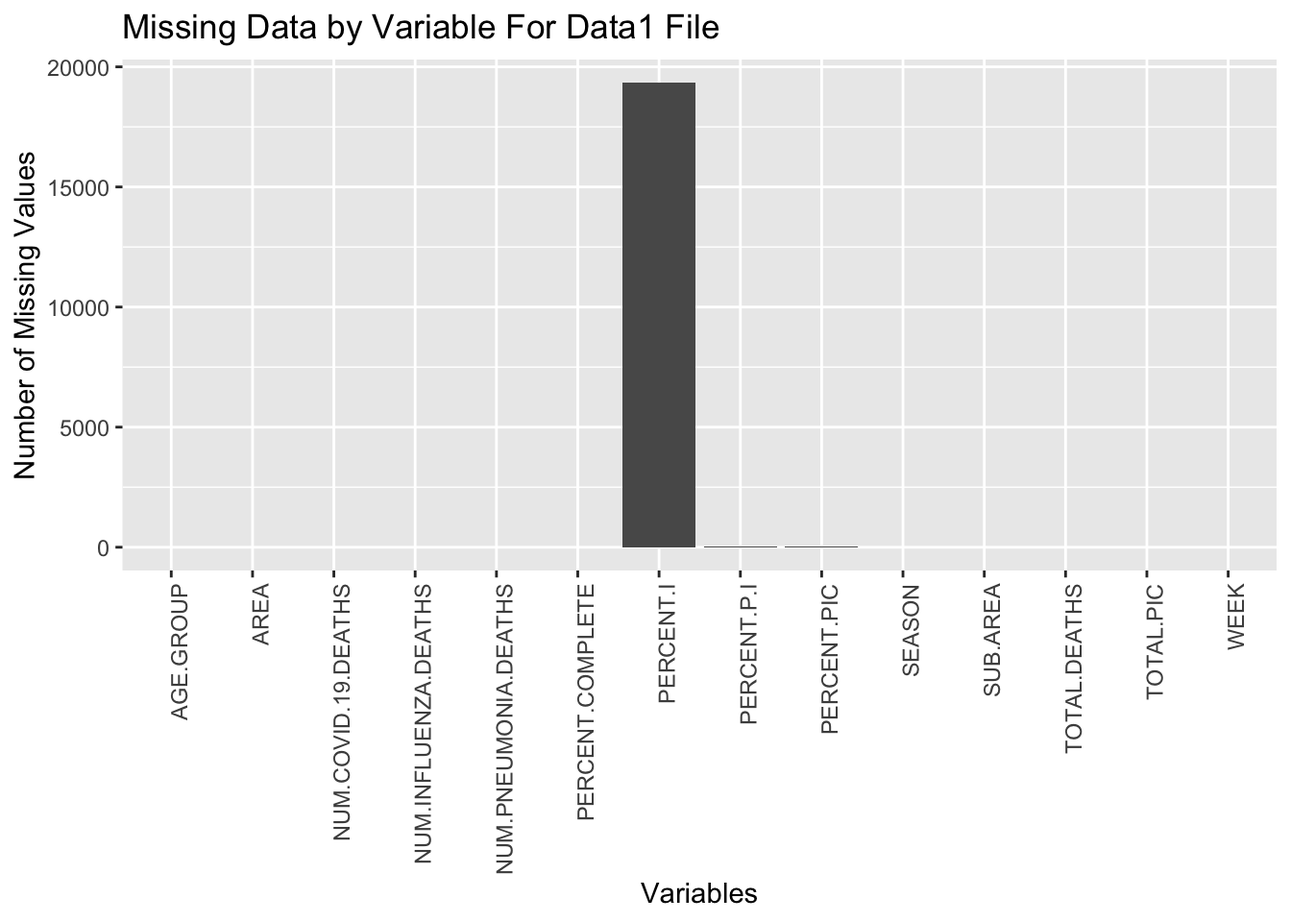
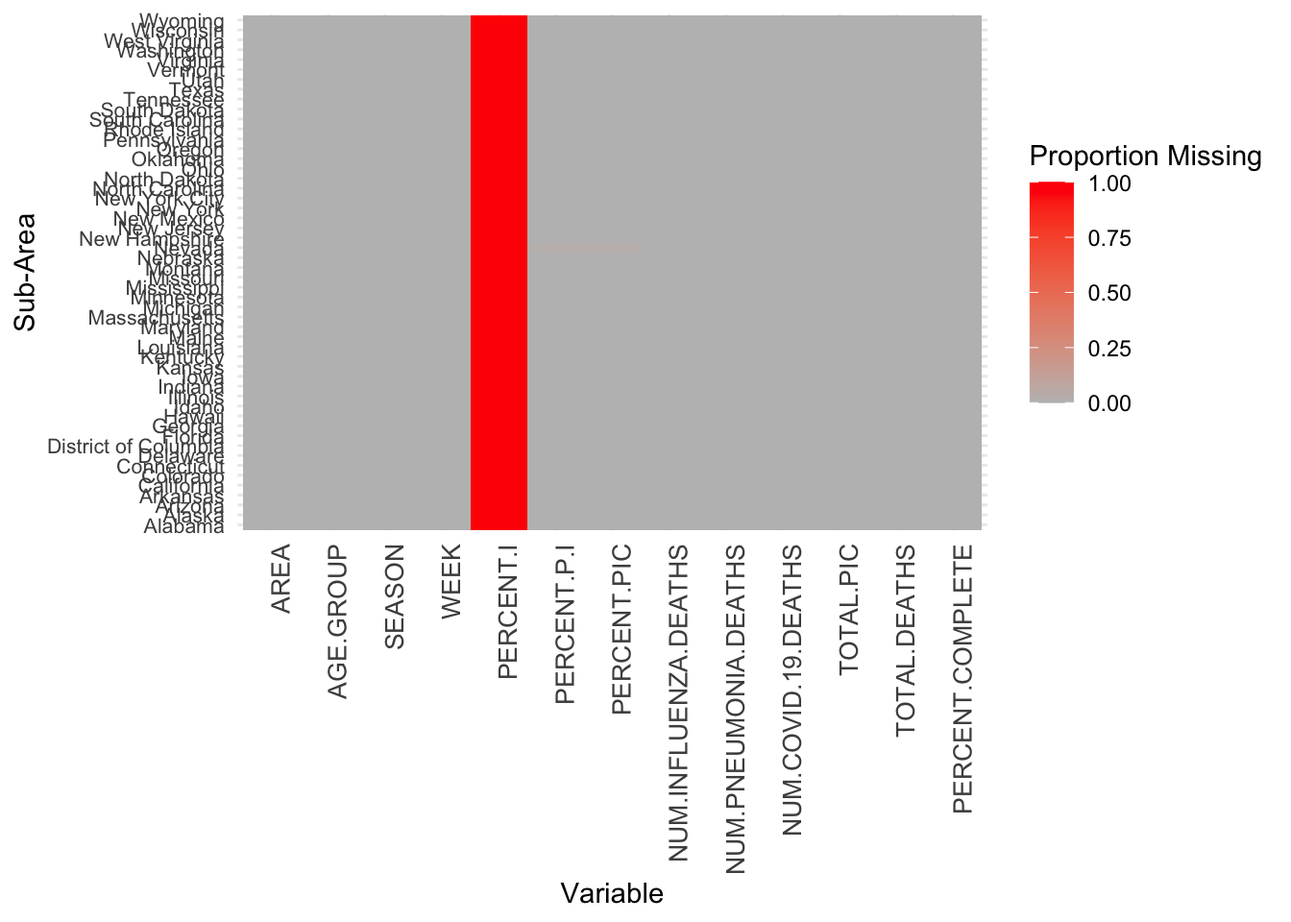
Update Data graph

diff --git a/docs/data.html b/docs/data.html
@@ -347,128 +347,112 @@ The final ones are “Weekly Cumulative Influenza Vaccination Coverage, Children
 <span id="cb10-3"><a href="#cb10-3" aria-hidden="true" tabindex="-1"></a><span class="co"># Calculating the number of missing values per column</span></span>
 <span id="cb10-4"><a href="#cb10-4" aria-hidden="true" tabindex="-1"></a>missing_values_counts <span class="ot">&lt;-</span> <span class="fu">colSums</span>(<span class="fu">is.na</span>(data1))</span>
 <span id="cb10-5"><a href="#cb10-5" aria-hidden="true" tabindex="-1"></a></span>
-<span id="cb10-6"><a href="#cb10-6" aria-hidden="true" tabindex="-1"></a><span class="co"># Creating a data frame for ggplot</span></span>
-<span id="cb10-7"><a href="#cb10-7" aria-hidden="true" tabindex="-1"></a>missing_data_df <span class="ot">&lt;-</span> <span class="fu">data.frame</span>(</span>
-<span id="cb10-8"><a href="#cb10-8" aria-hidden="true" tabindex="-1"></a>  <span class="at">Variable =</span> <span class="fu">names</span>(missing_values_counts),</span>
-<span id="cb10-9"><a href="#cb10-9" aria-hidden="true" tabindex="-1"></a>  <span class="at">MissingValues =</span> missing_values_counts</span>
-<span id="cb10-10"><a href="#cb10-10" aria-hidden="true" tabindex="-1"></a>)</span>
-<span id="cb10-11"><a href="#cb10-11" aria-hidden="true" tabindex="-1"></a><span class="co"># Plotting the bar chart</span></span>
-<span id="cb10-12"><a href="#cb10-12" aria-hidden="true" tabindex="-1"></a><span class="fu">ggplot</span>(missing_data_df, <span class="fu">aes</span>(<span class="at">x =</span> Variable, <span class="at">y =</span> MissingValues)) <span class="sc">+</span></span>
-<span id="cb10-13"><a href="#cb10-13" aria-hidden="true" tabindex="-1"></a>  <span class="fu">geom_bar</span>(<span class="at">stat =</span> <span class="st">"identity"</span>) <span class="sc">+</span></span>
-<span id="cb10-14"><a href="#cb10-14" aria-hidden="true" tabindex="-1"></a>  <span class="fu">theme</span>(<span class="at">axis.text.x =</span> <span class="fu">element_text</span>(<span class="at">angle =</span> <span class="dv">90</span>, <span class="at">hjust =</span> <span class="dv">1</span>)) <span class="sc">+</span></span>
-<span id="cb10-15"><a href="#cb10-15" aria-hidden="true" tabindex="-1"></a>  <span class="fu">labs</span>(<span class="at">x =</span> <span class="st">"Variables"</span>, <span class="at">y =</span> <span class="st">"Number of Missing Values"</span>, <span class="at">title =</span> <span class="st">"Missing Data by Variable For Data1 File"</span>)</span></code><button title="Copy to Clipboard" class="code-copy-button"><i class="bi"></i></button></pre></div>
+<span id="cb10-6"><a href="#cb10-6" aria-hidden="true" tabindex="-1"></a><span class="co"># Create a new dataframe indicating if each value is missing</span></span>
+<span id="cb10-7"><a href="#cb10-7" aria-hidden="true" tabindex="-1"></a>missing_values <span class="ot">&lt;-</span> data1 <span class="sc">%&gt;%</span> <span class="fu">mutate</span>(<span class="fu">across</span>(<span class="sc">-</span>SUB.AREA, is.na))</span>
+<span id="cb10-8"><a href="#cb10-8" aria-hidden="true" tabindex="-1"></a></span>
+<span id="cb10-9"><a href="#cb10-9" aria-hidden="true" tabindex="-1"></a><span class="co"># Calculate the proportion of missing values by state for each variable</span></span>
+<span id="cb10-10"><a href="#cb10-10" aria-hidden="true" tabindex="-1"></a>missing_values_proportion <span class="ot">&lt;-</span> missing_values <span class="sc">%&gt;%</span> </span>
+<span id="cb10-11"><a href="#cb10-11" aria-hidden="true" tabindex="-1"></a>  <span class="fu">group_by</span>(SUB.AREA) <span class="sc">%&gt;%</span></span>
+<span id="cb10-12"><a href="#cb10-12" aria-hidden="true" tabindex="-1"></a>  <span class="fu">summarise</span>(<span class="fu">across</span>(<span class="fu">everything</span>(), <span class="sc">~</span> <span class="fu">sum</span>(., <span class="at">na.rm =</span> <span class="cn">TRUE</span>) <span class="sc">/</span> <span class="fu">n</span>()))</span>
+<span id="cb10-13"><a href="#cb10-13" aria-hidden="true" tabindex="-1"></a></span>
+<span id="cb10-14"><a href="#cb10-14" aria-hidden="true" tabindex="-1"></a><span class="co"># Reshape the data for the heatmap</span></span>
+<span id="cb10-15"><a href="#cb10-15" aria-hidden="true" tabindex="-1"></a>long_format <span class="ot">&lt;-</span> <span class="fu">melt</span>(missing_values_proportion, <span class="at">id.vars =</span> <span class="st">'SUB.AREA'</span>)</span>
+<span id="cb10-16"><a href="#cb10-16" aria-hidden="true" tabindex="-1"></a></span>
+<span id="cb10-17"><a href="#cb10-17" aria-hidden="true" tabindex="-1"></a><span class="co"># Plot the heatmap</span></span>
+<span id="cb10-18"><a href="#cb10-18" aria-hidden="true" tabindex="-1"></a><span class="fu">ggplot</span>(long_format, <span class="fu">aes</span>(<span class="at">x =</span> variable, <span class="at">y =</span> SUB.AREA, <span class="at">fill =</span> value)) <span class="sc">+</span></span>
+<span id="cb10-19"><a href="#cb10-19" aria-hidden="true" tabindex="-1"></a>  <span class="fu">geom_tile</span>() <span class="sc">+</span></span>
+<span id="cb10-20"><a href="#cb10-20" aria-hidden="true" tabindex="-1"></a>  <span class="fu">scale_fill_gradient</span>(<span class="at">low =</span> <span class="st">"grey"</span>, <span class="at">high =</span> <span class="st">"red"</span>) <span class="sc">+</span></span>
+<span id="cb10-21"><a href="#cb10-21" aria-hidden="true" tabindex="-1"></a>  <span class="fu">labs</span>(<span class="at">x =</span> <span class="st">"Variable"</span>, <span class="at">y =</span> <span class="st">"Sub-Area"</span>, <span class="at">fill =</span> <span class="st">"Proportion Missing"</span>) <span class="sc">+</span></span>
+<span id="cb10-22"><a href="#cb10-22" aria-hidden="true" tabindex="-1"></a>  <span class="fu">theme_minimal</span>() <span class="sc">+</span></span>
+<span id="cb10-23"><a href="#cb10-23" aria-hidden="true" tabindex="-1"></a>  <span class="fu">theme</span>(</span>
+<span id="cb10-24"><a href="#cb10-24" aria-hidden="true" tabindex="-1"></a>    <span class="at">axis.text.x =</span> <span class="fu">element_text</span>(<span class="at">angle =</span> <span class="dv">90</span>, <span class="at">hjust =</span> <span class="dv">1</span>, <span class="at">size =</span> <span class="dv">10</span>),</span>
+<span id="cb10-25"><a href="#cb10-25" aria-hidden="true" tabindex="-1"></a>    <span class="at">axis.text.y =</span> <span class="fu">element_text</span>(<span class="at">size =</span> <span class="dv">8</span>))</span></code><button title="Copy to Clipboard" class="code-copy-button"><i class="bi"></i></button></pre></div>
 </details>
 <div class="cell-output-display">
 <p><img src="data_files/figure-html/unnamed-chunk-5-1.png" class="img-fluid" width="672"></p>
-</div>
-<details>
-<summary>Code</summary>
-<div class="sourceCode cell-code" id="cb11"><pre class="sourceCode r code-with-copy"><code class="sourceCode r"><span id="cb11-1"><a href="#cb11-1" aria-hidden="true" tabindex="-1"></a><span class="co"># Create a new dataframe indicating if each value is missing</span></span>
-<span id="cb11-2"><a href="#cb11-2" aria-hidden="true" tabindex="-1"></a>missing_values <span class="ot">&lt;-</span> data1 <span class="sc">%&gt;%</span> <span class="fu">mutate</span>(<span class="fu">across</span>(<span class="sc">-</span>SUB.AREA, is.na))</span>
-<span id="cb11-3"><a href="#cb11-3" aria-hidden="true" tabindex="-1"></a></span>
-<span id="cb11-4"><a href="#cb11-4" aria-hidden="true" tabindex="-1"></a><span class="co"># Calculate the proportion of missing values by state for each variable</span></span>
-<span id="cb11-5"><a href="#cb11-5" aria-hidden="true" tabindex="-1"></a>missing_values_proportion <span class="ot">&lt;-</span> missing_values <span class="sc">%&gt;%</span> </span>
-<span id="cb11-6"><a href="#cb11-6" aria-hidden="true" tabindex="-1"></a>  <span class="fu">group_by</span>(SUB.AREA) <span class="sc">%&gt;%</span></span>
-<span id="cb11-7"><a href="#cb11-7" aria-hidden="true" tabindex="-1"></a>  <span class="fu">summarise</span>(<span class="fu">across</span>(<span class="fu">everything</span>(), <span class="sc">~</span> <span class="fu">sum</span>(., <span class="at">na.rm =</span> <span class="cn">TRUE</span>) <span class="sc">/</span> <span class="fu">n</span>()))</span>
-<span id="cb11-8"><a href="#cb11-8" aria-hidden="true" tabindex="-1"></a></span>
-<span id="cb11-9"><a href="#cb11-9" aria-hidden="true" tabindex="-1"></a><span class="co"># Reshape the data for the heatmap</span></span>
-<span id="cb11-10"><a href="#cb11-10" aria-hidden="true" tabindex="-1"></a>long_format <span class="ot">&lt;-</span> <span class="fu">melt</span>(missing_values_proportion, <span class="at">id.vars =</span> <span class="st">'SUB.AREA'</span>)</span>
-<span id="cb11-11"><a href="#cb11-11" aria-hidden="true" tabindex="-1"></a></span>
-<span id="cb11-12"><a href="#cb11-12" aria-hidden="true" tabindex="-1"></a><span class="co"># Plot the heatmap</span></span>
-<span id="cb11-13"><a href="#cb11-13" aria-hidden="true" tabindex="-1"></a><span class="fu">ggplot</span>(long_format, <span class="fu">aes</span>(<span class="at">x =</span> variable, <span class="at">y =</span> SUB.AREA, <span class="at">fill =</span> value)) <span class="sc">+</span></span>
-<span id="cb11-14"><a href="#cb11-14" aria-hidden="true" tabindex="-1"></a>  <span class="fu">geom_tile</span>() <span class="sc">+</span></span>
-<span id="cb11-15"><a href="#cb11-15" aria-hidden="true" tabindex="-1"></a>  <span class="fu">scale_fill_gradient</span>(<span class="at">low =</span> <span class="st">"grey"</span>, <span class="at">high =</span> <span class="st">"red"</span>) <span class="sc">+</span></span>
-<span id="cb11-16"><a href="#cb11-16" aria-hidden="true" tabindex="-1"></a>  <span class="fu">labs</span>(<span class="at">x =</span> <span class="st">"Variable"</span>, <span class="at">y =</span> <span class="st">"Sub-Area"</span>, <span class="at">fill =</span> <span class="st">"Proportion Missing"</span>) <span class="sc">+</span></span>
-<span id="cb11-17"><a href="#cb11-17" aria-hidden="true" tabindex="-1"></a>  <span class="fu">theme_minimal</span>() <span class="sc">+</span></span>
-<span id="cb11-18"><a href="#cb11-18" aria-hidden="true" tabindex="-1"></a>  <span class="fu">theme</span>(</span>
-<span id="cb11-19"><a href="#cb11-19" aria-hidden="true" tabindex="-1"></a>    <span class="at">axis.text.x =</span> <span class="fu">element_text</span>(<span class="at">angle =</span> <span class="dv">90</span>, <span class="at">hjust =</span> <span class="dv">1</span>, <span class="at">size =</span> <span class="dv">10</span>),</span>
-<span id="cb11-20"><a href="#cb11-20" aria-hidden="true" tabindex="-1"></a>    <span class="at">axis.text.y =</span> <span class="fu">element_text</span>(<span class="at">size =</span> <span class="dv">8</span>))</span></code><button title="Copy to Clipboard" class="code-copy-button"><i class="bi"></i></button></pre></div>
-</details>
-<div class="cell-output-display">
-<p><img src="data_files/figure-html/unnamed-chunk-5-2.png" class="img-fluid" width="672"></p>
 </div>
 </div>
 <p>In dataset 2, a lot of diseases have null values different states such as Alaska, Arkansas, Colorado, Connecticut, Delaware, District of Columbia, Hawaii, Idaho, Indiana, Iowa, Kansas, Louisiana, Maine, Maryland, Minnesota, most of which are missing in influenza and pneumonia, and abnormal clinical findings.</p>
 <div class="cell">
 <details>
 <summary>Code</summary>
-<div class="sourceCode cell-code" id="cb12"><pre class="sourceCode r code-with-copy"><code class="sourceCode r"><span id="cb12-1"><a href="#cb12-1" aria-hidden="true" tabindex="-1"></a>data2 <span class="ot">&lt;-</span> <span class="fu">read.csv</span>(<span class="st">"data/data2.csv"</span>)</span>
-<span id="cb12-2"><a href="#cb12-2" aria-hidden="true" tabindex="-1"></a></span>
-<span id="cb12-3"><a href="#cb12-3" aria-hidden="true" tabindex="-1"></a><span class="co"># Define a function to count missing values</span></span>
-<span id="cb12-4"><a href="#cb12-4" aria-hidden="true" tabindex="-1"></a>count_missing <span class="ot">&lt;-</span> <span class="cf">function</span>(x) {</span>
-<span id="cb12-5"><a href="#cb12-5" aria-hidden="true" tabindex="-1"></a>  na_count <span class="ot">&lt;-</span> <span class="fu">sum</span>(<span class="fu">is.na</span>(x))             <span class="co"># Count NA values</span></span>
-<span id="cb12-6"><a href="#cb12-6" aria-hidden="true" tabindex="-1"></a>  blank_count <span class="ot">&lt;-</span> <span class="fu">sum</span>(x <span class="sc">==</span> <span class="st">""</span>, <span class="at">na.rm =</span> <span class="cn">TRUE</span>) <span class="co"># Count blank strings, remove NA from count</span></span>
-<span id="cb12-7"><a href="#cb12-7" aria-hidden="true" tabindex="-1"></a>  <span class="fu">return</span>(na_count <span class="sc">+</span> blank_count)</span>
-<span id="cb12-8"><a href="#cb12-8" aria-hidden="true" tabindex="-1"></a>}</span>
-<span id="cb12-9"><a href="#cb12-9" aria-hidden="true" tabindex="-1"></a></span>
-<span id="cb12-10"><a href="#cb12-10" aria-hidden="true" tabindex="-1"></a><span class="co"># Apply this function to every column in the dataframe</span></span>
-<span id="cb12-11"><a href="#cb12-11" aria-hidden="true" tabindex="-1"></a>missing_counts <span class="ot">&lt;-</span> <span class="fu">sapply</span>(data2, count_missing)</span>
-<span id="cb12-12"><a href="#cb12-12" aria-hidden="true" tabindex="-1"></a><span class="co"># Creating a data frame for ggplot</span></span>
-<span id="cb12-13"><a href="#cb12-13" aria-hidden="true" tabindex="-1"></a>variable_indices <span class="ot">&lt;-</span> <span class="dv">1</span><span class="sc">:</span><span class="fu">length</span>(missing_counts)</span>
-<span id="cb12-14"><a href="#cb12-14" aria-hidden="true" tabindex="-1"></a>missing_data_df1 <span class="ot">&lt;-</span> <span class="fu">data.frame</span>(</span>
-<span id="cb12-15"><a href="#cb12-15" aria-hidden="true" tabindex="-1"></a>  <span class="at">Variable =</span> variable_indices,</span>
-<span id="cb12-16"><a href="#cb12-16" aria-hidden="true" tabindex="-1"></a>  <span class="at">MissingValues =</span> missing_counts</span>
-<span id="cb12-17"><a href="#cb12-17" aria-hidden="true" tabindex="-1"></a>)</span>
-<span id="cb12-18"><a href="#cb12-18" aria-hidden="true" tabindex="-1"></a></span>
-<span id="cb12-19"><a href="#cb12-19" aria-hidden="true" tabindex="-1"></a><span class="co"># Plotting the bar chart</span></span>
-<span id="cb12-20"><a href="#cb12-20" aria-hidden="true" tabindex="-1"></a><span class="fu">ggplot</span>(missing_data_df1, <span class="fu">aes</span>(<span class="at">x =</span> Variable, <span class="at">y =</span> MissingValues)) <span class="sc">+</span></span>
-<span id="cb12-21"><a href="#cb12-21" aria-hidden="true" tabindex="-1"></a>  <span class="fu">geom_bar</span>(<span class="at">stat =</span> <span class="st">"identity"</span>) <span class="sc">+</span></span>
-<span id="cb12-22"><a href="#cb12-22" aria-hidden="true" tabindex="-1"></a>  <span class="fu">theme</span>(<span class="at">axis.text.x =</span> <span class="fu">element_text</span>(<span class="at">angle =</span> <span class="dv">90</span>, <span class="at">hjust =</span> <span class="dv">1</span>)) <span class="sc">+</span></span>
-<span id="cb12-23"><a href="#cb12-23" aria-hidden="true" tabindex="-1"></a>  <span class="fu">labs</span>(<span class="at">x =</span> <span class="st">"Variable Index"</span>, <span class="at">y =</span> <span class="st">"Number of Missing Values"</span>, <span class="at">title =</span> <span class="st">"Missing Data by Variable For Data2 File"</span>)</span></code><button title="Copy to Clipboard" class="code-copy-button"><i class="bi"></i></button></pre></div>
+<div class="sourceCode cell-code" id="cb11"><pre class="sourceCode r code-with-copy"><code class="sourceCode r"><span id="cb11-1"><a href="#cb11-1" aria-hidden="true" tabindex="-1"></a>data2 <span class="ot">&lt;-</span> <span class="fu">read.csv</span>(<span class="st">"data/data2.csv"</span>)</span>
+<span id="cb11-2"><a href="#cb11-2" aria-hidden="true" tabindex="-1"></a></span>
+<span id="cb11-3"><a href="#cb11-3" aria-hidden="true" tabindex="-1"></a><span class="co"># Define a function to count missing values</span></span>
+<span id="cb11-4"><a href="#cb11-4" aria-hidden="true" tabindex="-1"></a>count_missing <span class="ot">&lt;-</span> <span class="cf">function</span>(x) {</span>
+<span id="cb11-5"><a href="#cb11-5" aria-hidden="true" tabindex="-1"></a>  na_count <span class="ot">&lt;-</span> <span class="fu">sum</span>(<span class="fu">is.na</span>(x))             <span class="co"># Count NA values</span></span>
+<span id="cb11-6"><a href="#cb11-6" aria-hidden="true" tabindex="-1"></a>  blank_count <span class="ot">&lt;-</span> <span class="fu">sum</span>(x <span class="sc">==</span> <span class="st">""</span>, <span class="at">na.rm =</span> <span class="cn">TRUE</span>) <span class="co"># Count blank strings, remove NA from count</span></span>
+<span id="cb11-7"><a href="#cb11-7" aria-hidden="true" tabindex="-1"></a>  <span class="fu">return</span>(na_count <span class="sc">+</span> blank_count)</span>
+<span id="cb11-8"><a href="#cb11-8" aria-hidden="true" tabindex="-1"></a>}</span>
+<span id="cb11-9"><a href="#cb11-9" aria-hidden="true" tabindex="-1"></a></span>
+<span id="cb11-10"><a href="#cb11-10" aria-hidden="true" tabindex="-1"></a><span class="co"># Apply this function to every column in the dataframe</span></span>
+<span id="cb11-11"><a href="#cb11-11" aria-hidden="true" tabindex="-1"></a>missing_counts <span class="ot">&lt;-</span> <span class="fu">sapply</span>(data2, count_missing)</span>
+<span id="cb11-12"><a href="#cb11-12" aria-hidden="true" tabindex="-1"></a><span class="co"># Creating a data frame for ggplot</span></span>
+<span id="cb11-13"><a href="#cb11-13" aria-hidden="true" tabindex="-1"></a>variable_indices <span class="ot">&lt;-</span> <span class="dv">1</span><span class="sc">:</span><span class="fu">length</span>(missing_counts)</span>
+<span id="cb11-14"><a href="#cb11-14" aria-hidden="true" tabindex="-1"></a>missing_data_df1 <span class="ot">&lt;-</span> <span class="fu">data.frame</span>(</span>
+<span id="cb11-15"><a href="#cb11-15" aria-hidden="true" tabindex="-1"></a>  <span class="at">Variable =</span> variable_indices,</span>
+<span id="cb11-16"><a href="#cb11-16" aria-hidden="true" tabindex="-1"></a>  <span class="at">MissingValues =</span> missing_counts</span>
+<span id="cb11-17"><a href="#cb11-17" aria-hidden="true" tabindex="-1"></a>)</span>
+<span id="cb11-18"><a href="#cb11-18" aria-hidden="true" tabindex="-1"></a></span>
+<span id="cb11-19"><a href="#cb11-19" aria-hidden="true" tabindex="-1"></a><span class="co"># Plotting the bar chart</span></span>
+<span id="cb11-20"><a href="#cb11-20" aria-hidden="true" tabindex="-1"></a><span class="fu">ggplot</span>(missing_data_df1, <span class="fu">aes</span>(<span class="at">x =</span> Variable, <span class="at">y =</span> MissingValues)) <span class="sc">+</span></span>
+<span id="cb11-21"><a href="#cb11-21" aria-hidden="true" tabindex="-1"></a>  <span class="fu">geom_bar</span>(<span class="at">stat =</span> <span class="st">"identity"</span>) <span class="sc">+</span></span>
+<span id="cb11-22"><a href="#cb11-22" aria-hidden="true" tabindex="-1"></a>  <span class="fu">theme</span>(<span class="at">axis.text.x =</span> <span class="fu">element_text</span>(<span class="at">angle =</span> <span class="dv">90</span>, <span class="at">hjust =</span> <span class="dv">1</span>)) <span class="sc">+</span></span>
+<span id="cb11-23"><a href="#cb11-23" aria-hidden="true" tabindex="-1"></a>  <span class="fu">labs</span>(<span class="at">x =</span> <span class="st">"Variable Index"</span>, <span class="at">y =</span> <span class="st">"Number of Missing Values"</span>, <span class="at">title =</span> <span class="st">"Missing Data by Variable For Data2 File"</span>)</span></code><button title="Copy to Clipboard" class="code-copy-button"><i class="bi"></i></button></pre></div>
 </details>
 <div class="cell-output-display">
 <p><img src="data_files/figure-html/unnamed-chunk-6-1.png" class="img-fluid" width="672"></p>
 </div>
 <details>
 <summary>Code</summary>
-<div class="sourceCode cell-code" id="cb13"><pre class="sourceCode r code-with-copy"><code class="sourceCode r"><span id="cb13-1"><a href="#cb13-1" aria-hidden="true" tabindex="-1"></a><span class="fu">ggsave</span>(<span class="st">'data2missing.png'</span>)</span></code><button title="Copy to Clipboard" class="code-copy-button"><i class="bi"></i></button></pre></div>
+<div class="sourceCode cell-code" id="cb12"><pre class="sourceCode r code-with-copy"><code class="sourceCode r"><span id="cb12-1"><a href="#cb12-1" aria-hidden="true" tabindex="-1"></a><span class="fu">ggsave</span>(<span class="st">'data2missing.png'</span>)</span></code><button title="Copy to Clipboard" class="code-copy-button"><i class="bi"></i></button></pre></div>
 </details>
 </div>
 <p>In dataset 3, it seems that Guam in “Weekly Cumulative Influenza Vaccination Coverage for Children” tends to have missing values for a few estimation variables such as point estimate, and confidence intervals while the data belongs to “Up-to-date” indicator label in “Weekly Cumulative Influenza Vaccination Coverage for Adults” are highly likely to appear missing.</p>
 <div class="cell">
 <details>
 <summary>Code</summary>
-<div class="sourceCode cell-code" id="cb14"><pre class="sourceCode r code-with-copy"><code class="sourceCode r"><span id="cb14-1"><a href="#cb14-1" aria-hidden="true" tabindex="-1"></a>data3_adult <span class="ot">&lt;-</span> <span class="fu">read.csv</span>(<span class="st">"data/data3_adult.csv"</span>)</span>
-<span id="cb14-2"><a href="#cb14-2" aria-hidden="true" tabindex="-1"></a>data3_youth <span class="ot">&lt;-</span> <span class="fu">read.csv</span>(<span class="st">"data/data3_youth.csv"</span>)</span>
-<span id="cb14-3"><a href="#cb14-3" aria-hidden="true" tabindex="-1"></a></span>
-<span id="cb14-4"><a href="#cb14-4" aria-hidden="true" tabindex="-1"></a><span class="co"># Define a function to count missing values</span></span>
-<span id="cb14-5"><a href="#cb14-5" aria-hidden="true" tabindex="-1"></a>count_missing <span class="ot">&lt;-</span> <span class="cf">function</span>(x) {</span>
-<span id="cb14-6"><a href="#cb14-6" aria-hidden="true" tabindex="-1"></a>  na_count <span class="ot">&lt;-</span> <span class="fu">sum</span>(<span class="fu">is.na</span>(x))             <span class="co"># Count NA values</span></span>
-<span id="cb14-7"><a href="#cb14-7" aria-hidden="true" tabindex="-1"></a>  blank_count <span class="ot">&lt;-</span> <span class="fu">sum</span>(x <span class="sc">==</span> <span class="st">""</span>, <span class="at">na.rm =</span> <span class="cn">TRUE</span>) <span class="co"># Count blank strings, remove NA from count</span></span>
-<span id="cb14-8"><a href="#cb14-8" aria-hidden="true" tabindex="-1"></a>  <span class="fu">return</span>(na_count <span class="sc">+</span> blank_count)</span>
-<span id="cb14-9"><a href="#cb14-9" aria-hidden="true" tabindex="-1"></a>}</span>
-<span id="cb14-10"><a href="#cb14-10" aria-hidden="true" tabindex="-1"></a></span>
-<span id="cb14-11"><a href="#cb14-11" aria-hidden="true" tabindex="-1"></a><span class="co"># Apply this function to every column in the dataframe</span></span>
-<span id="cb14-12"><a href="#cb14-12" aria-hidden="true" tabindex="-1"></a>missing_counts3a <span class="ot">&lt;-</span> <span class="fu">sapply</span>(data3_adult, count_missing)</span>
-<span id="cb14-13"><a href="#cb14-13" aria-hidden="true" tabindex="-1"></a>missing_counts3y <span class="ot">&lt;-</span> <span class="fu">sapply</span>(data3_youth, count_missing)</span>
-<span id="cb14-14"><a href="#cb14-14" aria-hidden="true" tabindex="-1"></a><span class="co"># Creating a data frame for ggplot</span></span>
-<span id="cb14-15"><a href="#cb14-15" aria-hidden="true" tabindex="-1"></a>missing_data_df3a <span class="ot">&lt;-</span> <span class="fu">data.frame</span>(</span>
-<span id="cb14-16"><a href="#cb14-16" aria-hidden="true" tabindex="-1"></a>  <span class="at">Variable =</span> <span class="fu">names</span>(missing_counts3a),</span>
-<span id="cb14-17"><a href="#cb14-17" aria-hidden="true" tabindex="-1"></a>  <span class="at">MissingValues =</span> missing_counts3a</span>
-<span id="cb14-18"><a href="#cb14-18" aria-hidden="true" tabindex="-1"></a>)</span>
-<span id="cb14-19"><a href="#cb14-19" aria-hidden="true" tabindex="-1"></a></span>
-<span id="cb14-20"><a href="#cb14-20" aria-hidden="true" tabindex="-1"></a><span class="co"># Plotting the bar chart</span></span>
-<span id="cb14-21"><a href="#cb14-21" aria-hidden="true" tabindex="-1"></a><span class="fu">ggplot</span>(missing_data_df3a, <span class="fu">aes</span>(<span class="at">x =</span> Variable, <span class="at">y =</span> MissingValues)) <span class="sc">+</span></span>
-<span id="cb14-22"><a href="#cb14-22" aria-hidden="true" tabindex="-1"></a>  <span class="fu">geom_bar</span>(<span class="at">stat =</span> <span class="st">"identity"</span>) <span class="sc">+</span></span>
-<span id="cb14-23"><a href="#cb14-23" aria-hidden="true" tabindex="-1"></a>  <span class="fu">theme</span>(<span class="at">axis.text.x =</span> <span class="fu">element_text</span>(<span class="at">angle =</span> <span class="dv">90</span>, <span class="at">hjust =</span> <span class="dv">1</span>)) <span class="sc">+</span></span>
-<span id="cb14-24"><a href="#cb14-24" aria-hidden="true" tabindex="-1"></a>  <span class="fu">labs</span>(<span class="at">x =</span> <span class="st">"Variables"</span>, <span class="at">y =</span> <span class="st">"Number of Missing Values"</span>, <span class="at">title =</span> <span class="st">"Missing Data by Variable For Data3_Adult File"</span>)</span></code><button title="Copy to Clipboard" class="code-copy-button"><i class="bi"></i></button></pre></div>
+<div class="sourceCode cell-code" id="cb13"><pre class="sourceCode r code-with-copy"><code class="sourceCode r"><span id="cb13-1"><a href="#cb13-1" aria-hidden="true" tabindex="-1"></a>data3_adult <span class="ot">&lt;-</span> <span class="fu">read.csv</span>(<span class="st">"data/data3_adult.csv"</span>)</span>
+<span id="cb13-2"><a href="#cb13-2" aria-hidden="true" tabindex="-1"></a>data3_youth <span class="ot">&lt;-</span> <span class="fu">read.csv</span>(<span class="st">"data/data3_youth.csv"</span>)</span>
+<span id="cb13-3"><a href="#cb13-3" aria-hidden="true" tabindex="-1"></a></span>
+<span id="cb13-4"><a href="#cb13-4" aria-hidden="true" tabindex="-1"></a><span class="co"># Define a function to count missing values</span></span>
+<span id="cb13-5"><a href="#cb13-5" aria-hidden="true" tabindex="-1"></a>count_missing <span class="ot">&lt;-</span> <span class="cf">function</span>(x) {</span>
+<span id="cb13-6"><a href="#cb13-6" aria-hidden="true" tabindex="-1"></a>  na_count <span class="ot">&lt;-</span> <span class="fu">sum</span>(<span class="fu">is.na</span>(x))             <span class="co"># Count NA values</span></span>
+<span id="cb13-7"><a href="#cb13-7" aria-hidden="true" tabindex="-1"></a>  blank_count <span class="ot">&lt;-</span> <span class="fu">sum</span>(x <span class="sc">==</span> <span class="st">""</span>, <span class="at">na.rm =</span> <span class="cn">TRUE</span>) <span class="co"># Count blank strings, remove NA from count</span></span>
+<span id="cb13-8"><a href="#cb13-8" aria-hidden="true" tabindex="-1"></a>  <span class="fu">return</span>(na_count <span class="sc">+</span> blank_count)</span>
+<span id="cb13-9"><a href="#cb13-9" aria-hidden="true" tabindex="-1"></a>}</span>
+<span id="cb13-10"><a href="#cb13-10" aria-hidden="true" tabindex="-1"></a></span>
+<span id="cb13-11"><a href="#cb13-11" aria-hidden="true" tabindex="-1"></a><span class="co"># Apply this function to every column in the dataframe</span></span>
+<span id="cb13-12"><a href="#cb13-12" aria-hidden="true" tabindex="-1"></a>missing_counts3a <span class="ot">&lt;-</span> <span class="fu">sapply</span>(data3_adult, count_missing)</span>
+<span id="cb13-13"><a href="#cb13-13" aria-hidden="true" tabindex="-1"></a>missing_counts3y <span class="ot">&lt;-</span> <span class="fu">sapply</span>(data3_youth, count_missing)</span>
+<span id="cb13-14"><a href="#cb13-14" aria-hidden="true" tabindex="-1"></a><span class="co"># Creating a data frame for ggplot</span></span>
+<span id="cb13-15"><a href="#cb13-15" aria-hidden="true" tabindex="-1"></a>missing_data_df3a <span class="ot">&lt;-</span> <span class="fu">data.frame</span>(</span>
+<span id="cb13-16"><a href="#cb13-16" aria-hidden="true" tabindex="-1"></a>  <span class="at">Variable =</span> <span class="fu">names</span>(missing_counts3a),</span>
+<span id="cb13-17"><a href="#cb13-17" aria-hidden="true" tabindex="-1"></a>  <span class="at">MissingValues =</span> missing_counts3a</span>
+<span id="cb13-18"><a href="#cb13-18" aria-hidden="true" tabindex="-1"></a>)</span>
+<span id="cb13-19"><a href="#cb13-19" aria-hidden="true" tabindex="-1"></a></span>
+<span id="cb13-20"><a href="#cb13-20" aria-hidden="true" tabindex="-1"></a><span class="co"># Plotting the bar chart</span></span>
+<span id="cb13-21"><a href="#cb13-21" aria-hidden="true" tabindex="-1"></a><span class="fu">ggplot</span>(missing_data_df3a, <span class="fu">aes</span>(<span class="at">x =</span> Variable, <span class="at">y =</span> MissingValues)) <span class="sc">+</span></span>
+<span id="cb13-22"><a href="#cb13-22" aria-hidden="true" tabindex="-1"></a>  <span class="fu">geom_bar</span>(<span class="at">stat =</span> <span class="st">"identity"</span>) <span class="sc">+</span></span>
+<span id="cb13-23"><a href="#cb13-23" aria-hidden="true" tabindex="-1"></a>  <span class="fu">theme</span>(<span class="at">axis.text.x =</span> <span class="fu">element_text</span>(<span class="at">angle =</span> <span class="dv">90</span>, <span class="at">hjust =</span> <span class="dv">1</span>)) <span class="sc">+</span></span>
+<span id="cb13-24"><a href="#cb13-24" aria-hidden="true" tabindex="-1"></a>  <span class="fu">labs</span>(<span class="at">x =</span> <span class="st">"Variables"</span>, <span class="at">y =</span> <span class="st">"Number of Missing Values"</span>, <span class="at">title =</span> <span class="st">"Missing Data by Variable For Data3_Adult File"</span>)</span></code><button title="Copy to Clipboard" class="code-copy-button"><i class="bi"></i></button></pre></div>
 </details>
 <div class="cell-output-display">
 <p><img src="data_files/figure-html/unnamed-chunk-7-1.png" class="img-fluid" width="672"></p>
 </div>
 <details>
 <summary>Code</summary>
-<div class="sourceCode cell-code" id="cb15"><pre class="sourceCode r code-with-copy"><code class="sourceCode r"><span id="cb15-1"><a href="#cb15-1" aria-hidden="true" tabindex="-1"></a><span class="co"># Creating a data frame for ggplot</span></span>
-<span id="cb15-2"><a href="#cb15-2" aria-hidden="true" tabindex="-1"></a>missing_data_df3y <span class="ot">&lt;-</span> <span class="fu">data.frame</span>(</span>
-<span id="cb15-3"><a href="#cb15-3" aria-hidden="true" tabindex="-1"></a>  <span class="at">Variable =</span> <span class="fu">names</span>(missing_counts3y),</span>
-<span id="cb15-4"><a href="#cb15-4" aria-hidden="true" tabindex="-1"></a>  <span class="at">MissingValues =</span> missing_counts3y</span>
-<span id="cb15-5"><a href="#cb15-5" aria-hidden="true" tabindex="-1"></a>)</span>
-<span id="cb15-6"><a href="#cb15-6" aria-hidden="true" tabindex="-1"></a></span>
-<span id="cb15-7"><a href="#cb15-7" aria-hidden="true" tabindex="-1"></a><span class="co"># Plotting the bar chart</span></span>
-<span id="cb15-8"><a href="#cb15-8" aria-hidden="true" tabindex="-1"></a><span class="fu">ggplot</span>(missing_data_df3y, <span class="fu">aes</span>(<span class="at">x =</span> Variable, <span class="at">y =</span> MissingValues)) <span class="sc">+</span></span>
-<span id="cb15-9"><a href="#cb15-9" aria-hidden="true" tabindex="-1"></a>  <span class="fu">geom_bar</span>(<span class="at">stat =</span> <span class="st">"identity"</span>) <span class="sc">+</span></span>
-<span id="cb15-10"><a href="#cb15-10" aria-hidden="true" tabindex="-1"></a>  <span class="fu">theme</span>(<span class="at">axis.text.x =</span> <span class="fu">element_text</span>(<span class="at">angle =</span> <span class="dv">90</span>, <span class="at">hjust =</span> <span class="dv">1</span>)) <span class="sc">+</span></span>
-<span id="cb15-11"><a href="#cb15-11" aria-hidden="true" tabindex="-1"></a>  <span class="fu">labs</span>(<span class="at">x =</span> <span class="st">"Variables"</span>, <span class="at">y =</span> <span class="st">"Number of Missing Values"</span>, <span class="at">title =</span> <span class="st">"Missing Data by Variable For Data3_Youth File"</span>)</span></code><button title="Copy to Clipboard" class="code-copy-button"><i class="bi"></i></button></pre></div>
+<div class="sourceCode cell-code" id="cb14"><pre class="sourceCode r code-with-copy"><code class="sourceCode r"><span id="cb14-1"><a href="#cb14-1" aria-hidden="true" tabindex="-1"></a><span class="co"># Creating a data frame for ggplot</span></span>
+<span id="cb14-2"><a href="#cb14-2" aria-hidden="true" tabindex="-1"></a>missing_data_df3y <span class="ot">&lt;-</span> <span class="fu">data.frame</span>(</span>
+<span id="cb14-3"><a href="#cb14-3" aria-hidden="true" tabindex="-1"></a>  <span class="at">Variable =</span> <span class="fu">names</span>(missing_counts3y),</span>
+<span id="cb14-4"><a href="#cb14-4" aria-hidden="true" tabindex="-1"></a>  <span class="at">MissingValues =</span> missing_counts3y</span>
+<span id="cb14-5"><a href="#cb14-5" aria-hidden="true" tabindex="-1"></a>)</span>
+<span id="cb14-6"><a href="#cb14-6" aria-hidden="true" tabindex="-1"></a></span>
+<span id="cb14-7"><a href="#cb14-7" aria-hidden="true" tabindex="-1"></a><span class="co"># Plotting the bar chart</span></span>
+<span id="cb14-8"><a href="#cb14-8" aria-hidden="true" tabindex="-1"></a><span class="fu">ggplot</span>(missing_data_df3y, <span class="fu">aes</span>(<span class="at">x =</span> Variable, <span class="at">y =</span> MissingValues)) <span class="sc">+</span></span>
+<span id="cb14-9"><a href="#cb14-9" aria-hidden="true" tabindex="-1"></a>  <span class="fu">geom_bar</span>(<span class="at">stat =</span> <span class="st">"identity"</span>) <span class="sc">+</span></span>
+<span id="cb14-10"><a href="#cb14-10" aria-hidden="true" tabindex="-1"></a>  <span class="fu">theme</span>(<span class="at">axis.text.x =</span> <span class="fu">element_text</span>(<span class="at">angle =</span> <span class="dv">90</span>, <span class="at">hjust =</span> <span class="dv">1</span>)) <span class="sc">+</span></span>
+<span id="cb14-11"><a href="#cb14-11" aria-hidden="true" tabindex="-1"></a>  <span class="fu">labs</span>(<span class="at">x =</span> <span class="st">"Variables"</span>, <span class="at">y =</span> <span class="st">"Number of Missing Values"</span>, <span class="at">title =</span> <span class="st">"Missing Data by Variable For Data3_Youth File"</span>)</span></code><button title="Copy to Clipboard" class="code-copy-button"><i class="bi"></i></button></pre></div>
 </details>
 <div class="cell-output-display">
 <p><img src="data_files/figure-html/unnamed-chunk-7-2.png" class="img-fluid" width="672"></p>
